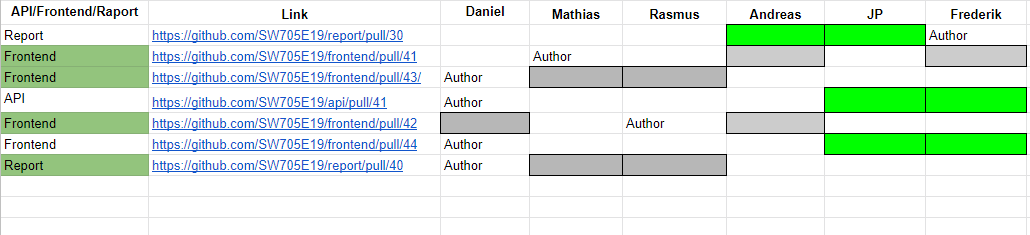
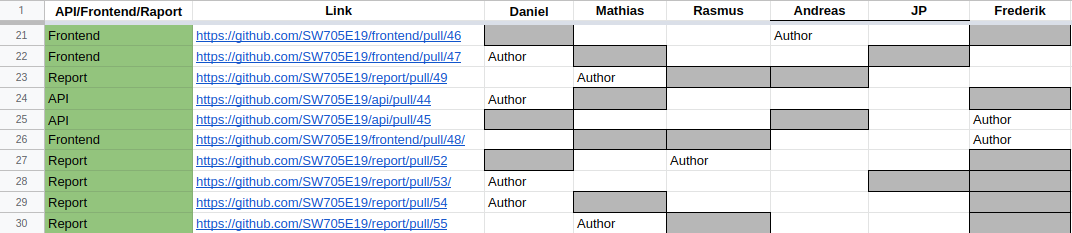
got one more lol

diff --git a/sections/discussion/ourprocessreflections.tex b/sections/discussion/ourprocessreflections.tex
@@ -53,7 +53,7 @@ This can be seen on \autoref{fig:formal-reviews}.
     \caption{Pull request assignment sheet.}
     \label{fig:formal-reviews}
 \end{figure}
-\todo{opdater billede til et hvor det ikke ligner at vi kun har 7 opgaver med mig som author på 4 af dem} 
+
 \subsubsection{Prototypes}
 In the beginning of the semester we created multiple prototypes for the entire system so that everyone had the same understanding of how the design should be.
 Some of these prototypes have been described in \autoref{sec:prototypes-design}.
